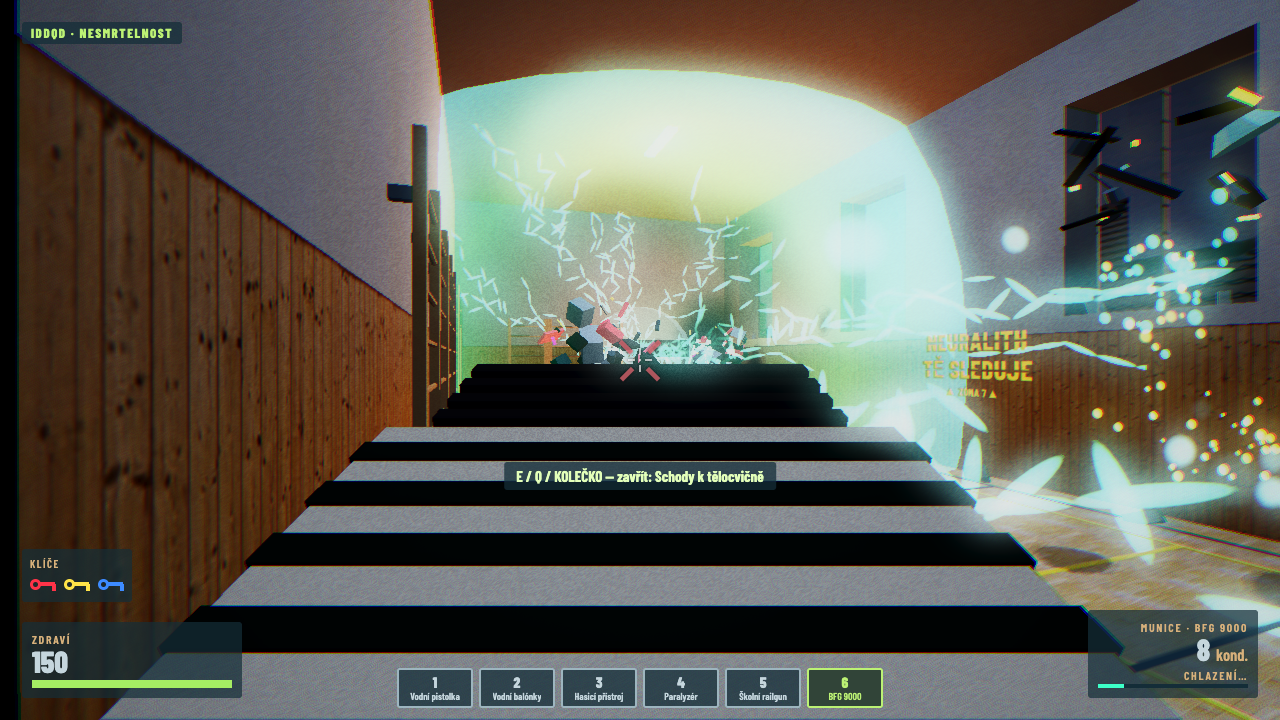
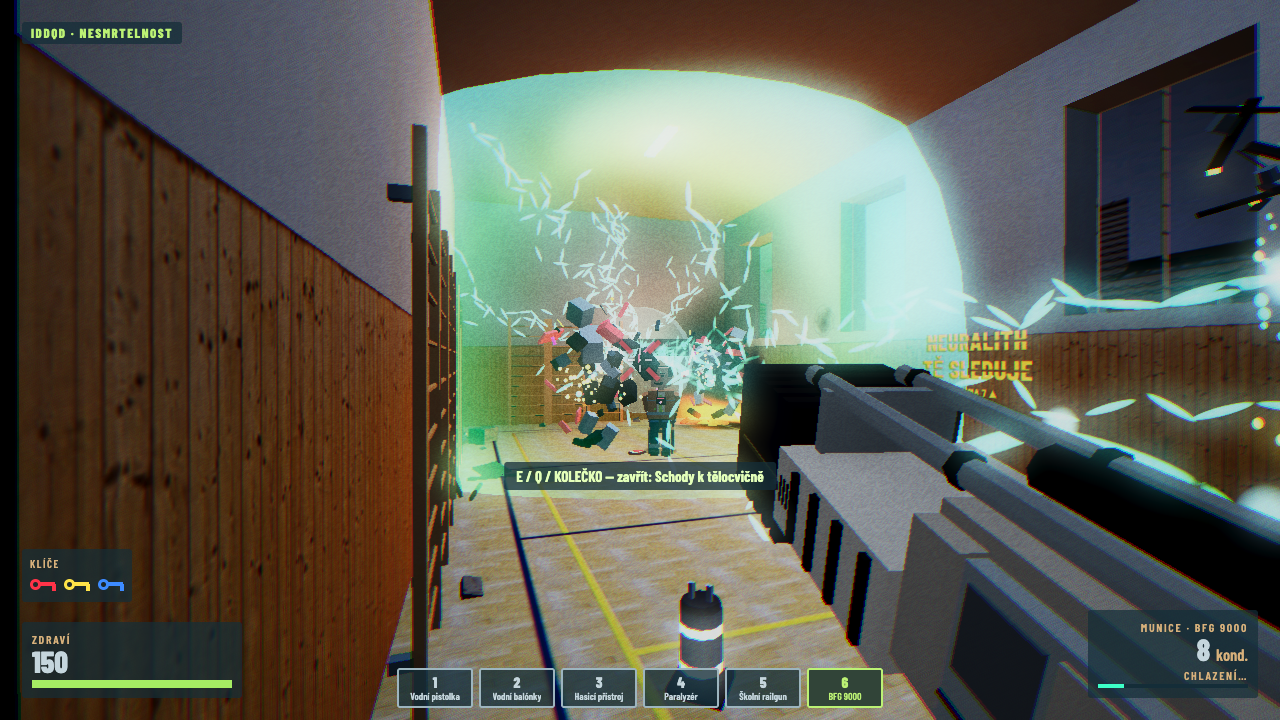
FEEDBACK: BFG 9000 after the side-view concept — long silver body, black ribbed muzzle, white charge block whose four thin side ribs light green one by one; held to the right, pointing forward

diff --git a/src/weapons/Bfg9000.ts b/src/weapons/Bfg9000.ts
@@ -58,7 +58,7 @@ interface BlastInfo {
  * fire charges it in stages of `params.stageTime` s, one capacitor of the reserve shared with the railgun (`ammoType`)
  * per stage, up to `params.maxStages` — or fewer when the reserve holds fewer (the charge stops there, a deny click
  * plays, the extra ribs stay dark). The four ribs of the front block light up one per stage, back to front (the rib
- * charging ramps up, completed ones stay lit); the core and vents glow with the charge, a rising whine plays per stage
+ * charging ramps up, completed ones stay lit); the core in the muzzle glows with the charge, a rising whine plays per stage
  * and the gun trembles more with every stage. Release fires a plasma ball (`PlasmaBalls`) of the completed stages n,
  * spending n capacitors; released before the first stage nothing fires and nothing is spent. Fully charged it waits,
  * pulsing softly (no overcharge). Switching weapons cancels the charge. The ball flies straight until it strikes
@@ -66,17 +66,16 @@ interface BlastInfo {
  * it and within `params.empVertical` m of its height (the same floor; walls do not stop it) takes `damage` electric —
  * enough for any robot on any difficulty — and robots farther out up to `params.stunRadiusN` freeze for
  * `params.stunSeconds`. The player and the teachers are never hurt. After a shot a short cooldown (1 / `fireRate`)
- * with the ribs, core and vents dark; then a chime (`sounds.ready`).
+ * with the ribs and the core dark; then a chime (`sounds.ready`).
  */
 export class Bfg9000 extends Weapon {
   private readonly balls: PlasmaBalls;
   private readonly blast: EmpBlast;
   private readonly effect: EffectData;
-  /** Glow colour of the ribs, core and vents (`effect.partColor`, else the ball's colour). */
+  /** Glow colour of the ribs and the core (`effect.partColor`, else the ball's colour). */
   private readonly partColor: string;
   private readonly core: Glowing;
   private readonly ribs: Glowing[];
-  private readonly vents: Glowing[];
   private readonly shakeRandom: Random;
   private readonly stageTime: number;
   private readonly maxStages: number;
@@ -89,7 +88,6 @@ export class Bfg9000 extends Weapon {
   private readonly stunStrength: number;
   private readonly ribGlow: number;
   private readonly coreGlow: number;
-  private readonly ventGlow: number;
   private readonly idleGlow: number;
   private readonly fullPulse: number;
   private readonly glowFade: number;
@@ -103,7 +101,7 @@ export class Bfg9000 extends Weapon {
   /** The cap the deny click was played for (−1 = not yet). */
   private deniedAt = -1;
   private cooling = false;
-  /** Shown glow 0–1 of the core and vents, and of each rib: rises with the charge at once, fades back (`glowFade`). */
+  /** Shown glow 0–1 of the core and of each rib: rises with the charge at once, fades back (`glowFade`). */
   private coreLevel = 0;
   private readonly ribLevels: number[];
   private charges = 0;
@@ -133,7 +131,6 @@ export class Bfg9000 extends Weapon {
     this.stunStrength = param("stunStrength");
     this.ribGlow = param("ribGlow");
     this.coreGlow = param("coreGlow");
-    this.ventGlow = param("ventGlow");
     this.idleGlow = param("idleGlow");
     this.fullPulse = param("fullPulse");
     this.glowFade = param("glowFade");
@@ -166,7 +163,6 @@ export class Bfg9000 extends Weapon {
     let index = 0;
     this.core = this.ownMaterial(model.core, index++);
     this.ribs = model.ribs.map((mesh) => this.ownMaterial(mesh, index++));
-    this.vents = model.vents.map((mesh) => this.ownMaterial(mesh, index++));
     this.ribLevels = this.ribs.map(() => 0);
     this.updateGlow();
   }
@@ -282,7 +278,7 @@ export class Bfg9000 extends Weapon {
   override dispose(): void {
     this.balls.dispose();
     this.blast.dispose();
-    for (const { material } of [this.core, ...this.ribs, ...this.vents]) material.dispose();
+    for (const { material } of [this.core, ...this.ribs]) material.dispose();
     super.dispose();
   }
 
@@ -448,7 +444,7 @@ export class Bfg9000 extends Weapon {
 
   /**
    * Target glow per part this step — charging: completed ribs lit, the rib charging ramps up with its stage, ribs
-   * beyond the cap dark, the core and vents with the whole charge; ready: the core and vents faintly (`idleGlow`);
+   * beyond the cap dark, the core with the whole charge; ready: the core faintly (`idleGlow`);
    * cooling down: dark, the core coming back towards the idle glow — and the shown glow follows: up at once, down
    * fading by `glowFade` per second (a released charge fades back).
    */
@@ -476,7 +472,6 @@ export class Bfg9000 extends Weapon {
       material.emissiveColor = level > 0 ? base.add(PaletteColor.emissive(this.partColor, full * level * pulse)) : base;
     };
     apply(this.core, this.coreLevel, this.coreGlow);
-    for (const vent of this.vents) apply(vent, this.coreLevel, this.ventGlow);
     this.ribs.forEach((rib, i) => apply(rib, this.ribLevels[i]!, this.ribGlow));
   }
 }

diff --git a/src/weapons/models/Bfg9000Model.ts b/src/weapons/models/Bfg9000Model.ts
@@ -6,17 +6,16 @@ import { ModelParts } from "../../rendering/ModelParts";
 import { ModelRegistry } from "../../utils/ModelRegistry";
 
 const BLUEPRINT = "bfg9000";
-/** Parts that glow with the charge: the emitter in the muzzle, the four ribs of the charge band (back to front), the vents. */
+/** Parts that glow with the charge: the emitter in the muzzle and the four ribs of the charge block (back to front). */
 const CORE = "core";
 const RIBS = ["rib1", "rib2", "rib3", "rib4"];
-const VENTS = ["ventL", "ventR"];
 
 /**
- * BFG 9000 (weapon 6, FEEDBACK 2026-10-04): the Classic BFG-9000 — a wide off-white receiver covered in circuitry (top
- * rails with green capsules, a black channel, brass capacitors, red lamps, side LED panel and button), a white charge
- * band cut by four ribs and a black ribbed muzzle block (blueprint `bfg9000`). Parameters: variant, colour overrides,
- * scale, light scale. Exposes the muzzle and the glowing parts — the emitter core in the muzzle, the four ribs of the
- * charge band (one lights up per charge stage, back to front) and the green capsules on the top rails (vents) — which
+ * BFG 9000 (weapon 6, FEEDBACK 2026-10-04): the side-view BFG 9000 concept — a long silver-grey receiver (side LED panel,
+ * round button, top tubes over the whole length, front grip, skeleton stock), a white charge block whose four ribs
+ * stand proud only on its sides (green and white stripes from the side) and a big black ribbed muzzle block (blueprint
+ * `bfg9000`). Parameters: variant, colour overrides, scale, light scale. Exposes the muzzle and the glowing parts — the
+ * emitter core in the muzzle and the four ribs (one lights up per charge stage, back to front) — which
  * src/weapons/Bfg9000.ts lights with the charge and darkens after a shot.
  */
 export class Bfg9000Model {
@@ -24,10 +23,9 @@ export class Bfg9000Model {
   readonly meshes: readonly Mesh[];
   readonly muzzle: TransformNode;
   readonly core: Mesh;
-  /** The charge band's ribs, back (`rib1`) to front (`rib4`): one per charge stage. */
+  /** The charge block's ribs, back (`rib1`) to front (`rib4`): one per charge stage. */
   readonly ribs: readonly Mesh[];
-  readonly vents: readonly Mesh[];
-  /** Every glowing part: the core, the ribs, the vents. */
+  /** Every glowing part: the core and the ribs. */
   readonly glowing: readonly Mesh[];
   private readonly built: BuiltModel;
 
@@ -39,8 +37,7 @@ export class Bfg9000Model {
     this.muzzle = parts.anchor("muzzle");
     this.core = parts.part(CORE);
     this.ribs = RIBS.map((name) => parts.part(name));
-    this.vents = VENTS.map((name) => parts.part(name));
-    this.glowing = [this.core, ...this.ribs, ...this.vents];
+    this.glowing = [this.core, ...this.ribs];
   }
 
   dispose(): void {

diff --git a/tests/data/weapons-data.test.ts b/tests/data/weapons-data.test.ts
@@ -75,7 +75,7 @@ test("weapons.json: phase 13 weapons carry the numbers and looks their classes r
   need("taser", ["arcAngleDeg", "maxTargets", "stunSeconds", "stunStrength"]);
   need("railgun", ["pierce", "aimAssistDeg"]);
   const stages = [1, 2, 3, 4].flatMap((n) => [`empRadius${n}`, `stunRadius${n}`, `ballSize${n}`, `ballBrightness${n}`]);
-  need("bfg9000", ["stageTime", "maxStages", ...stages, "ballSpeed", "ballRadius", "ballHitRadius", "maxFlightTime", "empVertical", "stunSeconds", "shellTime", "ribGlow", "coreGlow", "ventGlow", "idleGlow", "glowFade"]);
+  need("bfg9000", ["stageTime", "maxStages", ...stages, "ballSpeed", "ballRadius", "ballHitRadius", "maxFlightTime", "empVertical", "stunSeconds", "shellTime", "ribGlow", "coreGlow", "idleGlow", "glowFade"]);
   for (const id of ["extinguisher", "taser", "railgun", "bfg9000"]) assert.ok(WeaponConfig.weapon(id).effect !== undefined, `${id} needs an effect block`);
   for (const id of ["waterBalloons", "extinguisher"]) assert.ok(WeaponConfig.weapon(id).stream !== undefined, `${id} needs a stream block`);
 

diff --git a/src/weapons/WeaponConfig.ts b/src/weapons/WeaponConfig.ts
@@ -90,7 +90,7 @@ export interface StreamData {
 export interface EffectData {
   color: string;
   colorEnd: string;
-  /** Colour of the weapon's own glowing parts (the BFG's ribs, core and vents); `color` when omitted. */
+  /** Colour of the weapon's own glowing parts (the BFG's ribs and core); `color` when omitted. */
   partColor?: string;
   /** Colour multiplier of the particles (above 1 reaches the bloom threshold). */
   glow: number;

diff --git a/DECISIONS.md b/DECISIONS.md
@@ -576,3 +576,4 @@ Měřeno ve hře, ne spočítáno: `tests/e2e/weapons-balance.spec.ts` v nové d
 - **`PointShadows.resize` po rychlé změně velikosti mapy znovu vytvoří hloubkový buffer, jako ho dělá Babylonův generátor:** přeskočený handler ho nevytvořil a vrhači se kreslili bez testu hloubky a v pipeline, kterou zahřátí nepostavilo. Procházka trasou má teď 0 pipeline a test to hlídá přesně (dřív ≤ 2).
 - **`CompileCounter` zapisuje i nové WebGPU pipeline (efekt, render target, formáty, MSAA, blending, hloubka, culling, mesh při `perf.trace(true)`, klíč cache) a `perf-combat.spec.ts` je při selhání vypíše:** „1 pipeline“ bez stavu kreslení nešlo vystopovat. Popis se skládá jen při vzniku pipeline, ta je sama o řády dražší.
 - **Slučování dílů robotů (úloha 2, Nízké s CPU 4×) se nedělalo:** `perf.spec.ts` test 4 dnes prochází i bez něj (32–33 fps, i na cafaee4). Díly jsou samostatné cíle zásahu, trosky po zničení a nosiče mokrých skvrn, takže sloučení by změnilo rozpad robota a zásahy, což zadání vylučuje.
+- **FEEDBACK 2026-10-04 — BFG podle konceptu z boku:** žebra nabíjecího bloku jsou nižší než blok a přečnívají jen do stran, průduchy (zelené kapsle nahoře) i `ventGlow` zmizely a viewmodel drží zbraň dál vpravo (x 0,4) jen s běžným natočením −5°, aby levý bok s pruhy byl vidět perspektivou a zbraň přitom mířila dopředu; žebra jsou tenká (12 mm) s roztečí 6 cm, protože z tohoto úhlu se zkracují a husté splývají.
